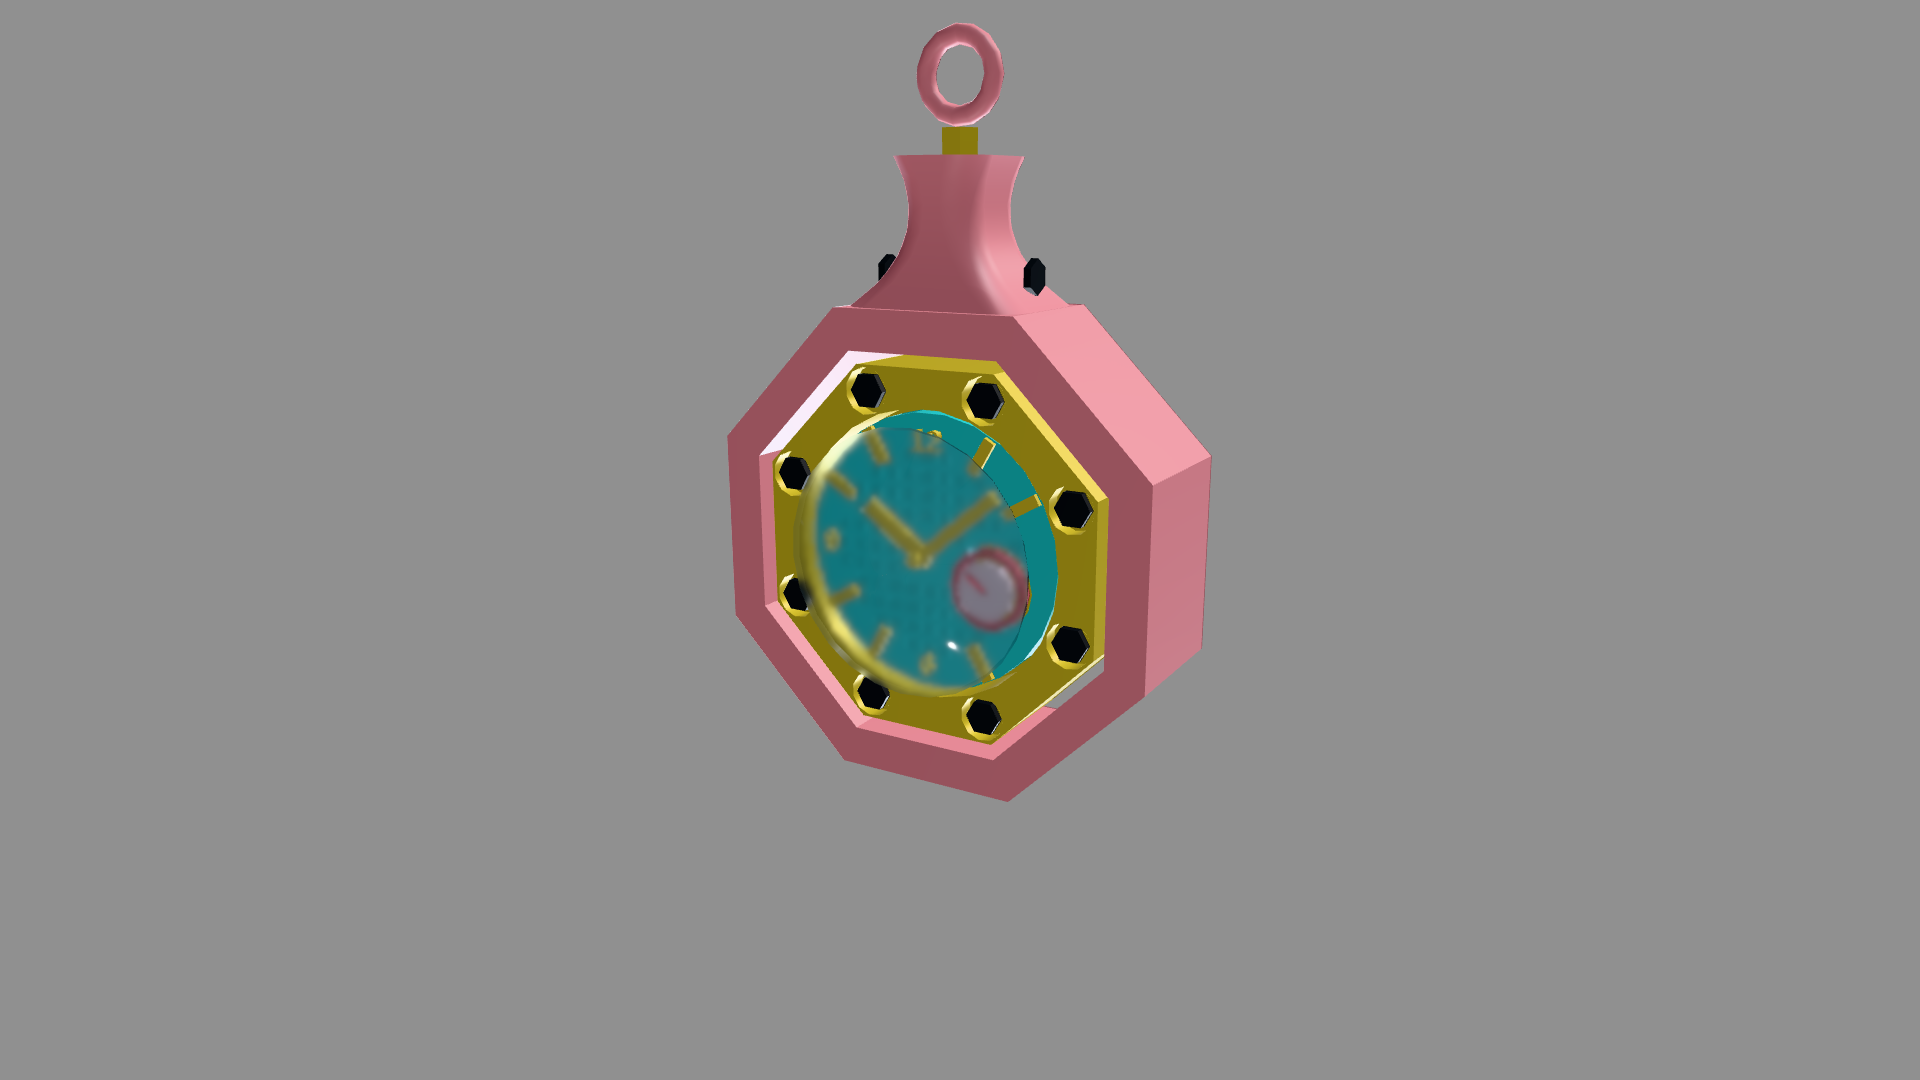
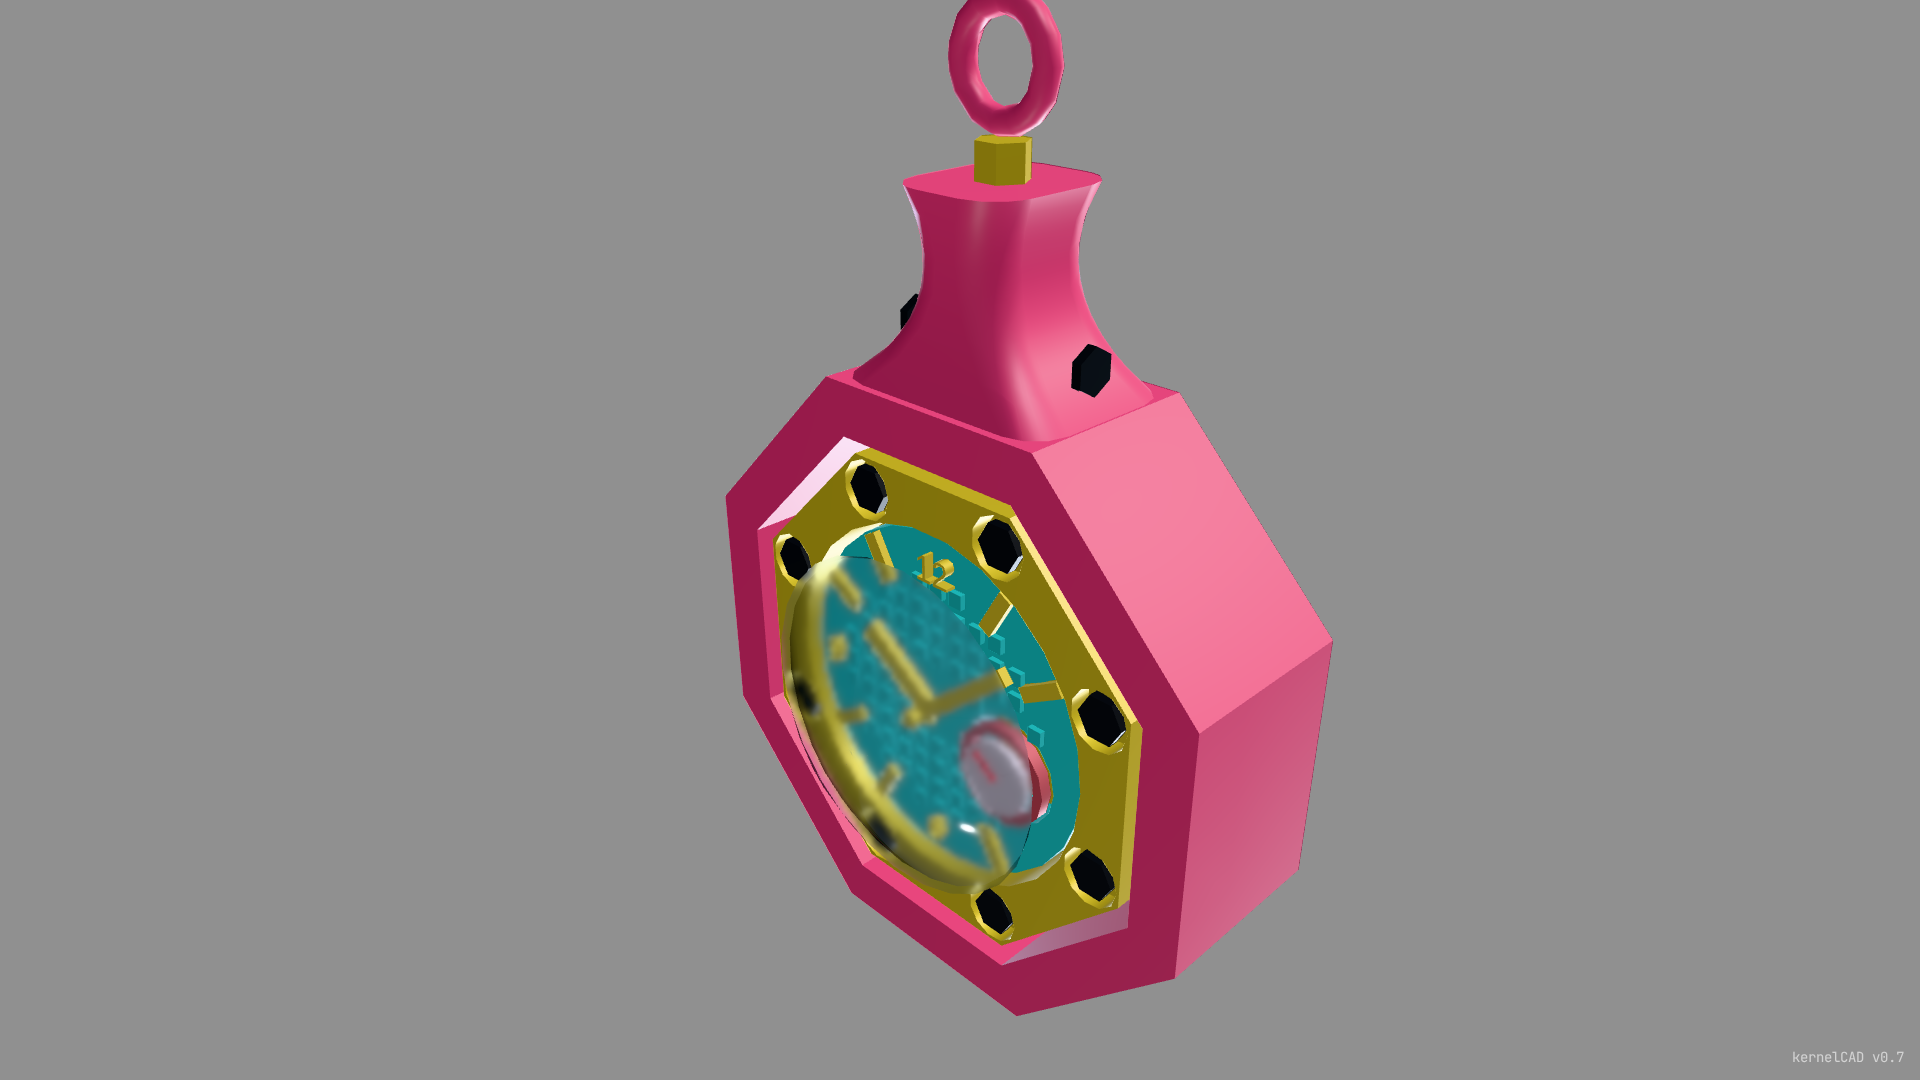
polish: pink baseColor #ff9aa3 → #ff5c8a (vivid coral)
The previous pastel pink read muted against the reference's vivid pop-art
coral. Under NeutralToneMapping (PR #261), the renderer preserves
saturation, so the script can use a brighter hex without ACES roll-off.

Also: captureHeroOnly.ts now accepts an optional CLI arg pointing at any
build.kcad.ts, writing the hero PNG next to the script.

Changed region(s): [[0.375, 0.0, 0.7188, 0.9472], [0.9375, 0.9778, 0.9688, 1.0]]

diff --git a/scripts/captureHeroOnly.ts b/scripts/captureHeroOnly.ts
@@ -13,8 +13,14 @@ import { loadScriptFeatures } from './lib/scriptLoader';
 import { meshFeaturesPerFeature } from '../src/modeling/capture/featureMeshing';
 import { serializeForBridge } from '../src/modeling/capture/featureMeshSerialize';
 
-const SCRIPT_PATH = resolve('examples/portfolio/pocket-watch/build.kcad.ts');
-const HERO_PNG = resolve('docs/demos/v0.7/pocket-watch/hero-frame.png');
+// Optional CLI arg: path to a build.kcad.ts script. When provided, the hero
+// PNG is written next to the script (replacing the file's basename suffix
+// with `hero-frame.png`). Default targets the v0.7 pocket-watch demo.
+const CLI_SCRIPT = process.argv[2];
+const SCRIPT_PATH = CLI_SCRIPT ? resolve(CLI_SCRIPT) : resolve('examples/portfolio/pocket-watch/build.kcad.ts');
+const HERO_PNG = CLI_SCRIPT
+  ? resolve(CLI_SCRIPT, '..', 'hero-frame.png')
+  : resolve('docs/demos/v0.7/pocket-watch/hero-frame.png');
 const W = 1920;
 const H = 1080;
 

diff --git a/examples/portfolio/pocket-watch-v2/build.kcad.ts b/examples/portfolio/pocket-watch-v2/build.kcad.ts
@@ -202,8 +202,12 @@ const watch = assembly('pop-art octagonal pocket watch');
 // to every LEAF primitive that contributes mass to the final shape so the
 // lookup finds it. (The case-pocket cutter doesn't need it — it's negative
 // mass, removed from the output.)
+// Saturated coral pink. The previous #ff9aa3 read as pastel under
+// NeutralToneMapping; the reference's hue is a vivid coral closer to a
+// hot-pink-with-warm-undertones value. #ff5c8a is the first stop; if it
+// reads neon we'll dial back to #ff7da0 or #f97090.
 const PINK_MAT = {
-  baseColor: '#ff9aa3',
+  baseColor: '#ff5c8a',
   metalness: 0,
   roughness: 0.45,
 };
